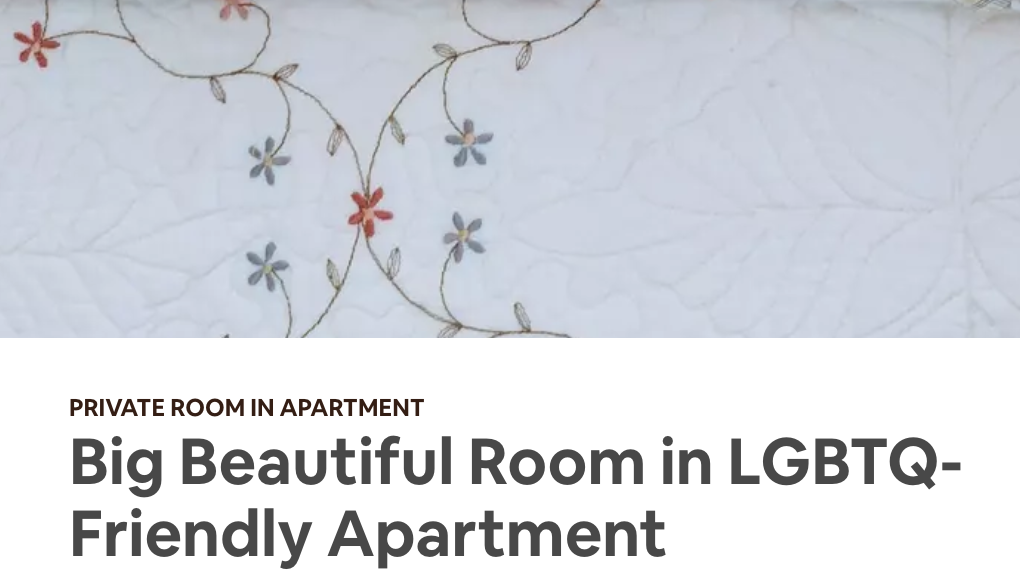
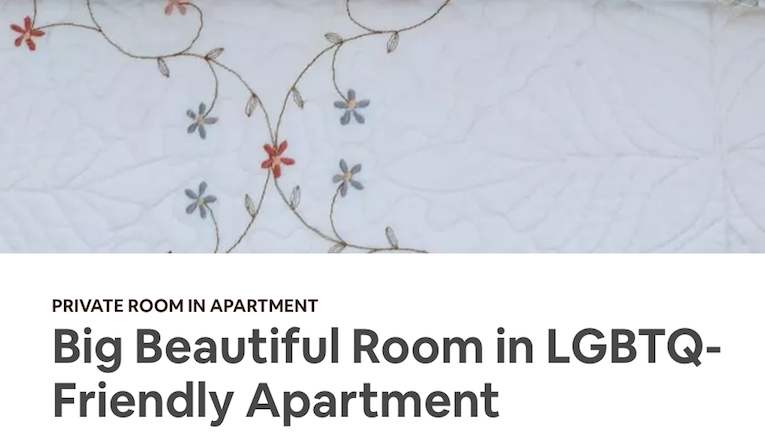
responsiveness to liking

diff --git a/index.html b/index.html
@@ -27,13 +27,13 @@
 			<section class="social__section">
 				<div class="social__icons">
 					<a href="https://www.linkedin.com/in/evmiguel" target="_blank">
-						<img src="img/linkedin.png" alt="LinkedIn">
+						<img src="img/linkedin.png" class="social__icon" alt="LinkedIn">
 					</a>
 					<a href="https://github.com/evmiguel" target="_blank">
-						<img src="img/github.png" alt="GitHub">
+						<img src="img/github.png" class="social__icon" alt="GitHub">
 					</a>
 					<a href="https://www.instagram.com/evmigz" target="_blank">
-						<img src="img/instagram.png" alt="Instagram">
+						<img src="img/instagram.png" class="social__icon" alt="Instagram">
 					</a>
 				</div>
 			</section>
@@ -41,27 +41,29 @@
 			<!-- FEATURED WORK SECTION -->
 			<section class="featured__section">
 				<h2 class="featured__header">Featured Work</h2>
-				<figure>
-				  <img class="featured__work" src="img/website.png" alt="Personal website">
-				  	<div class="featured__description">
-					  <figcaption>PERSONAL WEBSITE</figcaption>
-					  <a href="https://erikamiguel.com">https://erikamiguel.com</a>
-					</div>
-				</figure>
-				<figure>
-				  <img class="featured__work" src="img/react1.png" alt="React Project">
-				  	<div class="featured__description">
-					  <figcaption>REACT NANODEGREE PROJECT</figcaption>
-					  <a href="https://react1.erikamiguel.com">https://react1.erikamiguel.com</a>
-					</div>
-				</figure>
-				<figure>
-				  <img class="featured__work" src="img/airbnb.png" alt="Airbnb Hosting">
-				  	<div class="featured__description">
-					  <figcaption>AIRBNB HOSTING</figcaption>
-					  <a href="https://www.airbnb.com/rooms/27405784">https://www.airbnb.com/rooms/27405784</a>
-					</div>
-				</figure>
+				<div class="featured__items">
+					<figure class="featured__item featured__website">
+					  <img class="featured__work" src="img/website.png" alt="Personal website">
+					  	<div class="featured__description">
+						  <figcaption>PERSONAL WEBSITE</figcaption>
+						  <a href="https://erikamiguel.com">https://erikamiguel.com</a>
+						</div>
+					</figure>
+					<figure class="featured__item featured__project">
+					  <img class="featured__work" src="img/react1.png" alt="React Project">
+					  	<div class="featured__description">
+						  <figcaption>REACT NANODEGREE PROJECT</figcaption>
+						  <a href="https://react1.erikamiguel.com">https://react1.erikamiguel.com</a>
+						</div>
+					</figure>
+					<figure class="featured__item featured__host">
+					  <img class="featured__work" src="img/airbnb.png" alt="Airbnb Hosting">
+					  	<div class="featured__description">
+						  <figcaption>AIRBNB HOSTING</figcaption>
+						  <a href="https://www.airbnb.com/rooms/27405784">https://www.airbnb.com/rooms/27405784</a>
+						</div>
+					</figure>
+				</div>
 			</section>
 		</div>
 	</body>

diff --git a/css/main.css b/css/main.css
@@ -1,4 +1,4 @@
-body, html {
+body, html. hr {
     height: 100%;
     width: 100%;
 }
@@ -15,6 +15,10 @@ body, html {
 .header__site, .social__icons {
 	display: flex;
 	flex-flow: row nowrap;
+}
+
+.header__section {
+	width: 100%;
 }
 
 .header__logo {
@@ -44,9 +48,10 @@ body, html {
 	height: 250px;
 
 	/* Center and scale the image nicely */
-    background-position: center;
+    background-position: right;
     background-repeat: no-repeat;
     background-size: cover;
+    flex-grow: 2;
 }
 
 /** ICON STYLING */
@@ -57,6 +62,11 @@ body, html {
 .social__icons {
 	padding-top: 5px;
 	justify-content: space-evenly;
+}
+
+.social__icon {
+	height: 50%;
+	width: auto;
 }
 
 /** FEATURED STYLING */
@@ -85,6 +95,90 @@ body, html {
 	}
 }
 
+@media screen and (min-width: 580px) and (max-width: 621px) {
+	.site {
+		display: flex;
+		flex-flow: row wrap;
+	}
+
+	.featured__items {
+		display: flex;
+		flex-flow: row wrap;
+		justify-content: space-evenly;
+	}
+
+	.featured__item {
+		flex-basis: 200px;
+		margin-left: 5px;
+		margin-right: 5px;
+
+	}
+
+	.cover__section {
+		order: 2;
+		width: 87%;
+	}
+
+	.social__icons {
+		display: flex;
+		flex-direction: column;
+	}
+
+	.social__icon {
+		height: auto;
+		width: 60%;
+	}
+
+	.social__section {
+		order: 1;
+	}
+
+}
+
+@media screen and (min-width: 620px) and (max-width: 739px) {
+	.site {
+		display: flex;
+		flex-flow: row wrap;
+	}
+
+	.cover__section {
+		order: 2;
+		width: 88%;
+	}
+
+	.social__icons {
+		display: flex;
+		flex-direction: column;
+	}
+
+	.social__icon {
+		height: auto;
+		width: 60%;
+	}
+
+	.social__section {
+		order: 1;
+	}
+
+	.featured__items {
+		display: flex;
+		flex-flow: row wrap;
+		justify-content: space-evenly;
+	}
+
+	.featured__section {
+		order: 10;
+	}
+
+
+	.featured__item {
+		flex-basis: 300px;
+		margin-left: 5px;
+		margin-right: 5px;
+	}
+
+}
+
 @media screen and (min-width: 740px) {
 	.site {
 		display: flex;
@@ -96,8 +190,22 @@ body, html {
 		width: 90%;
 	}
 
+	.featured__items {
+		display: flex;
+		flex-flow: row nowrap;
+	}
+
 	.featured__section {
 		order: 10;
+	}
+
+	.featured__header {
+		text-align: left;
+	}
+
+	.featured__item {
+		margin-left: 5px;
+		margin-right: 5px;
 	}
 
 	.social__section {
@@ -107,5 +215,10 @@ body, html {
 	.social__icons {
 		display: flex;
 		flex-direction: column;
+	}
+
+	.social__icon {
+		height: auto;
+		width: 60%;
 	}
 }
